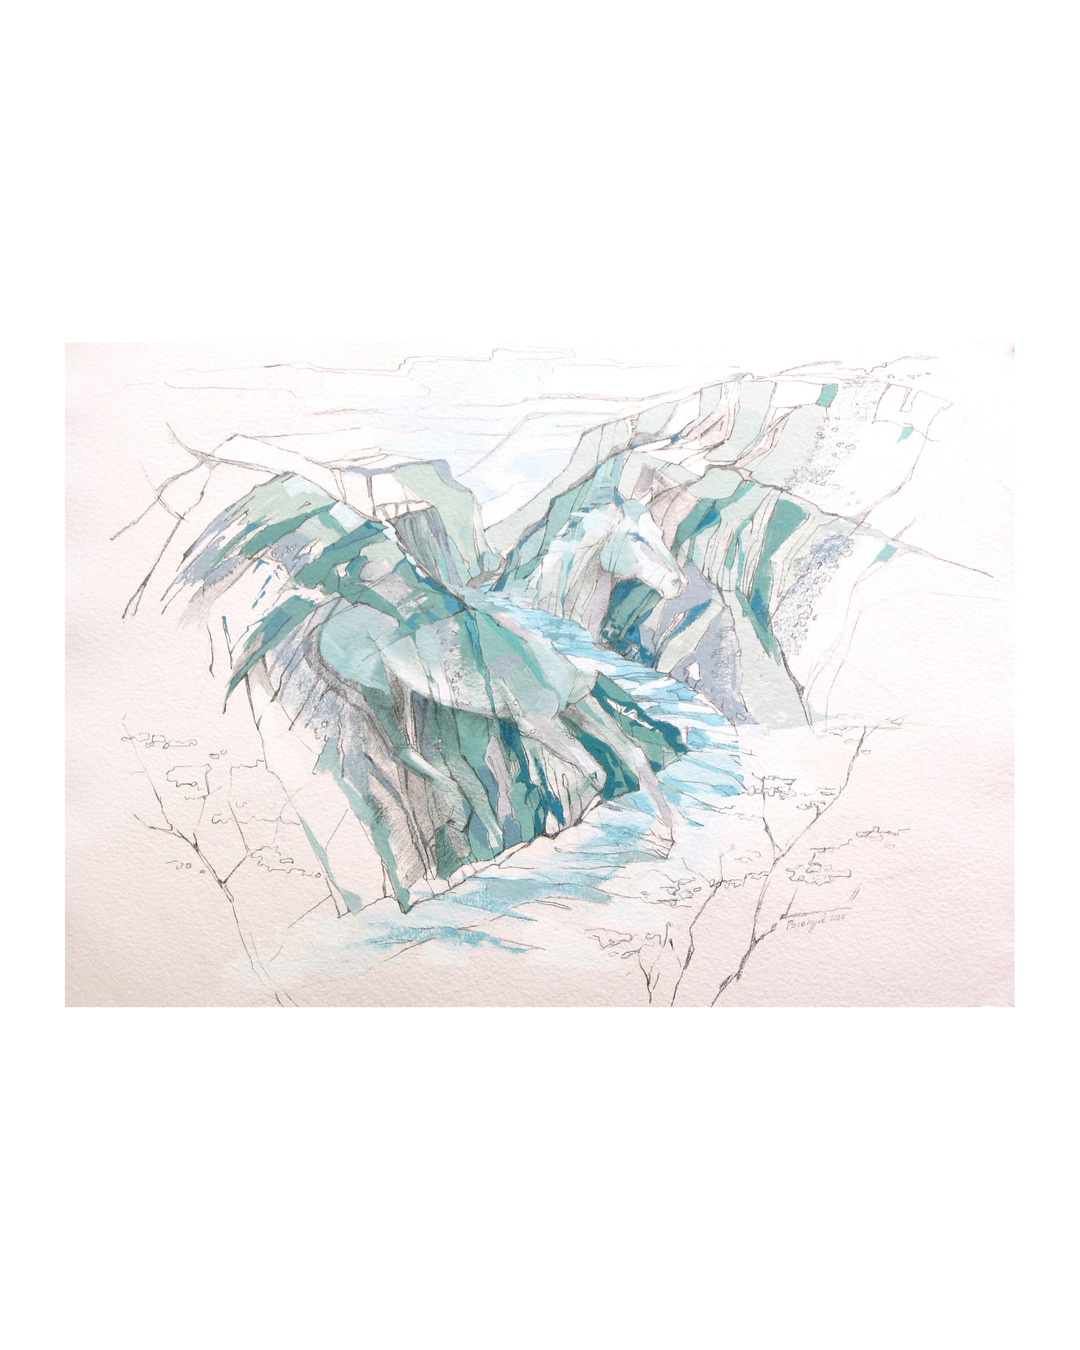
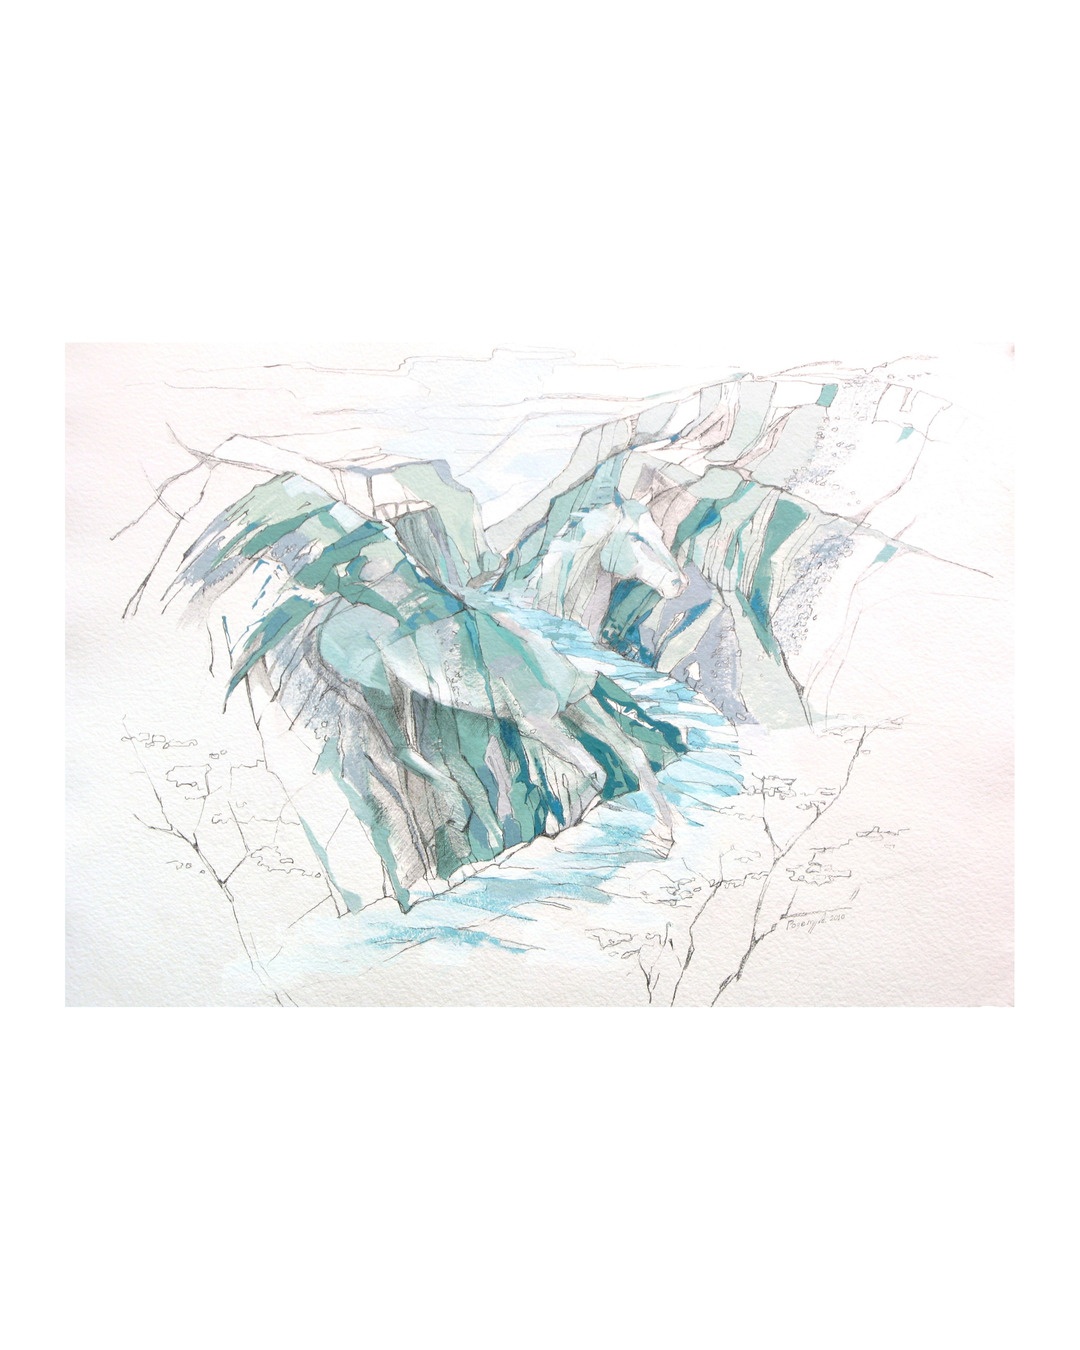
broadcast: sync

Changed region(s): [[0.0611, 0.6533, 0.3056, 0.7467]]

diff --git a/generate.py b/generate.py
@@ -5030,7 +5030,9 @@ def artworks_of(d: dict[str, Any]) -> "list[dict[str, Any]]":
                 # подпись. Без подписи же оно должно быть в /art»). Первый объявленный вид и
                 # есть канонический показ работы; холст — политика КАНАЛА, лента его не просит.
                 _views = a.get("views") or []
-                r = _ar.rendition(src, view=(dict(_views[0]) if _views else None))
+                import art_ground as _agr
+                r = _ar.rendition(src, view=(dict(_views[0]) if _views else None),
+                                  ground=_agr.rule_for(a))
                 if isinstance(r, _ob.Bottom):
                     _LOG.warning("artwork %s withheld from this render — %s", src[:12], r.reason())
                     continue
@@ -5761,8 +5763,10 @@ def owner_projections(d: dict[str, Any]) -> "list[Projection]":
                 _src = str(_w2.get("source") or "")
                 if not _src:
                     continue
+                import art_ground as _agr2
                 _rr = _ar_mod().rendition(_src, view=(dict(_v) or None) or None,
-                                          frame=_ab.frame_policy())
+                                          frame=_ab.frame_policy(),
+                                          ground=_agr2.rule_for(_w2))
                 if isinstance(_rr, _ob_mod().Confirmed):
                     out.append(Projection(f"art-img:{_rr.value.filename}",
                                           PurePosixPath("art/img") / _rr.value.filename,
